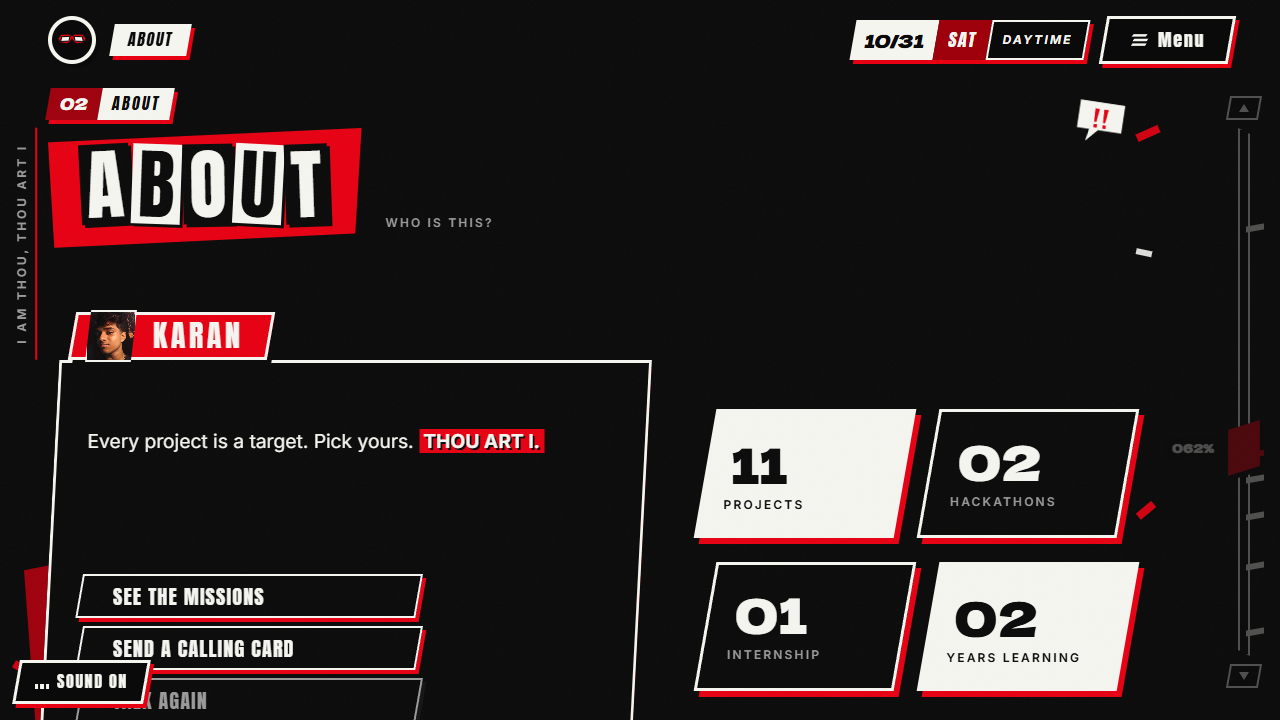
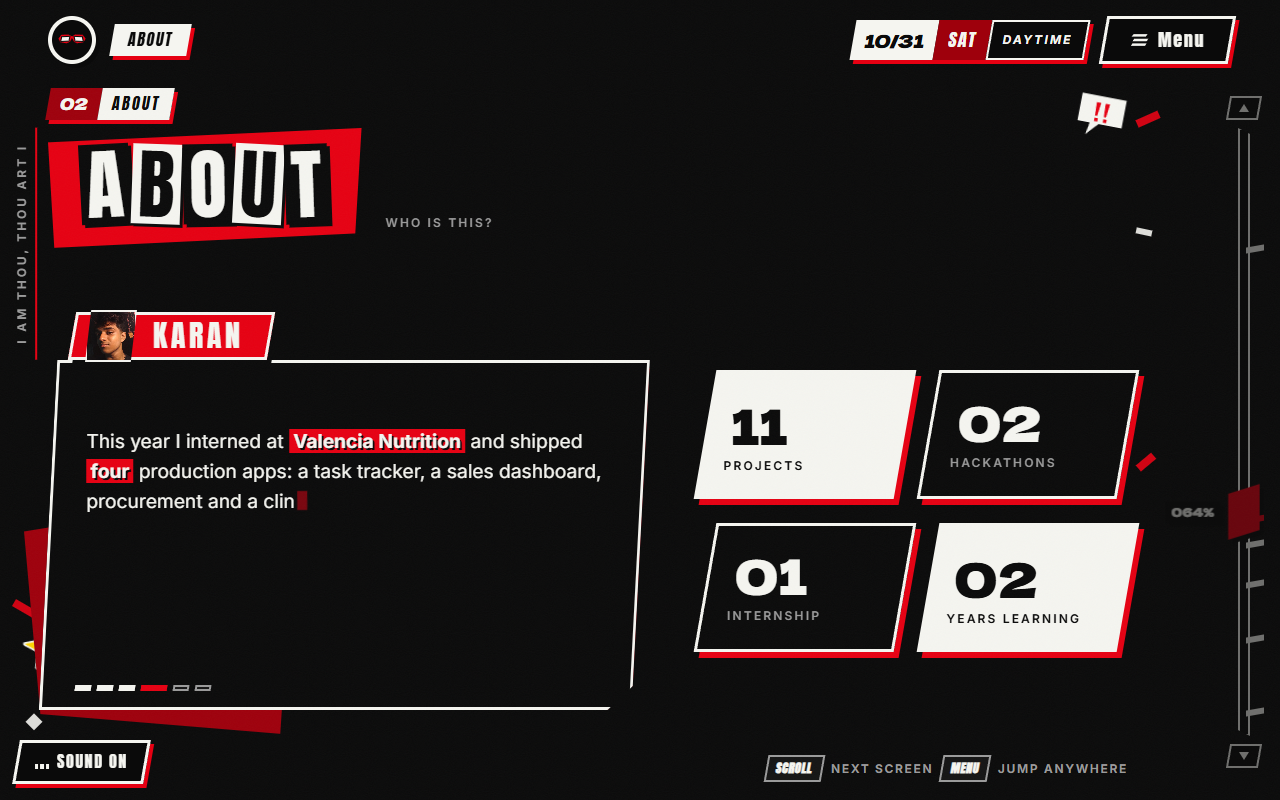
TP

diff --git a/client/src/styles/components.css b/client/src/styles/components.css
@@ -58,11 +58,11 @@
 .dialogue-name .portrait--avatar { width: 52px; height: 52px; margin: -14px 0 -14px -6px; }
 .dialogue-box {
   position: relative; padding: var(--s6) var(--s4) var(--s5); background: var(--black); color: var(--white);
-  border: 3px solid var(--white); transform: skewX(-3deg); box-shadow: 8px 8px 0 var(--red); cursor: pointer;
+  min-height: 384px; border: 3px solid var(--white); transform: skewX(-3deg); box-shadow: 8px 8px 0 var(--red); cursor: pointer; /* same height on every page and with choices */
   clip-path: polygon(0 0, 100% 0, 100% calc(100% - 24px), calc(100% - 24px) 100%, 0 100%);
 }
-.dialogue-text { transform: skewX(3deg); font-size: clamp(18px, 1.5vw, 22px); line-height: 1.55; min-height: 6.4em; max-width: 56ch; }
-.dialogue-text.is-big { font-family: var(--font-display); font-size: clamp(34px, 4.2vw, 56px); line-height: 1.02; text-transform: uppercase; letter-spacing: 0.02em; min-height: 3.1em; }
+.dialogue-text { transform: skewX(3deg); font-size: clamp(18px, 1.5vw, 22px); line-height: 1.55; min-height: 4.8em; max-width: 56ch; }
+.dialogue-text.is-big { font-family: var(--font-display); font-size: clamp(34px, 4.2vw, 56px); line-height: 1.02; text-transform: uppercase; letter-spacing: 0.02em; min-height: 2.2em; }
 .dlg-hl { background: var(--red); color: var(--white); padding: 0 0.22em; font-weight: 700; text-shadow: 2px 2px 0 var(--black); box-decoration-break: clone; -webkit-box-decoration-break: clone; }
 .dialogue-text .caret { display: inline-block; width: 0.5em; height: 1em; margin-left: 2px; vertical-align: -0.12em; background: var(--red); animation: blink 700ms steps(2) infinite; }
 .dialogue-next { position: absolute; right: var(--s5); bottom: var(--s2); width: 18px; height: 14px; background: var(--red); clip-path: polygon(0 0, 100% 0, 50% 100%); animation: bob 800ms var(--ease-in-out) infinite; }
@@ -72,9 +72,9 @@
 .dialogue-pips li { width: 16px; height: 6px; background: var(--ink); border: 2px solid var(--muted); transform: skewX(var(--skew)); }
 .dialogue-pips li.is-seen { background: var(--white); border-color: var(--white); }
 .dialogue-pips li.is-on { background: var(--red); border-color: var(--red); width: 26px; }
-.dialogue-choices { display: grid; gap: var(--s1); margin: var(--s3) 0 var(--s2); max-width: 340px; transform: skewX(3deg); }
+.dialogue-choices { display: grid; gap: 6px; margin: var(--s2) 0 var(--s3); max-width: 340px; transform: skewX(3deg); }
 .dlg-choice {
-  display: block; width: 100%; padding: 8px var(--s3); text-align: left; background: var(--black); color: var(--white); border: 2px solid var(--white);
+  display: block; width: 100%; padding: 6px var(--s3); text-align: left; background: var(--black); color: var(--white); border: 2px solid var(--white);
   font-family: var(--font-display); font-size: 20px; letter-spacing: 0.06em; text-transform: uppercase; line-height: 1.1;
   transform: skewX(var(--skew)); box-shadow: 4px 4px 0 var(--red); transition: background 150ms, transform 150ms var(--ease-snap), box-shadow 150ms var(--ease-snap);
 }
@@ -86,7 +86,7 @@
 .dlg-choice--quiet { color: var(--muted); border-color: var(--muted); box-shadow: 4px 4px 0 var(--ink); }
 @keyframes blink { 50% { opacity: 0; } }
 @keyframes bob { 50% { transform: translateY(5px); } }
-@media (max-width: 599px) { .dialogue-box { padding: var(--s6) var(--s3) var(--s5); } .dialogue-next { right: var(--s4); } }
+@media (max-width: 599px) { .dialogue-box { min-height: 0; padding: var(--s6) var(--s3) var(--s5); } .dialogue-next { right: var(--s4); } }
 @media (prefers-reduced-motion: reduce) { .dialogue-next, .dialogue-text .caret { animation: none; } }
 
 /* Stickers: thick white outline, solid offset shadow. Only small loops allowed. */
